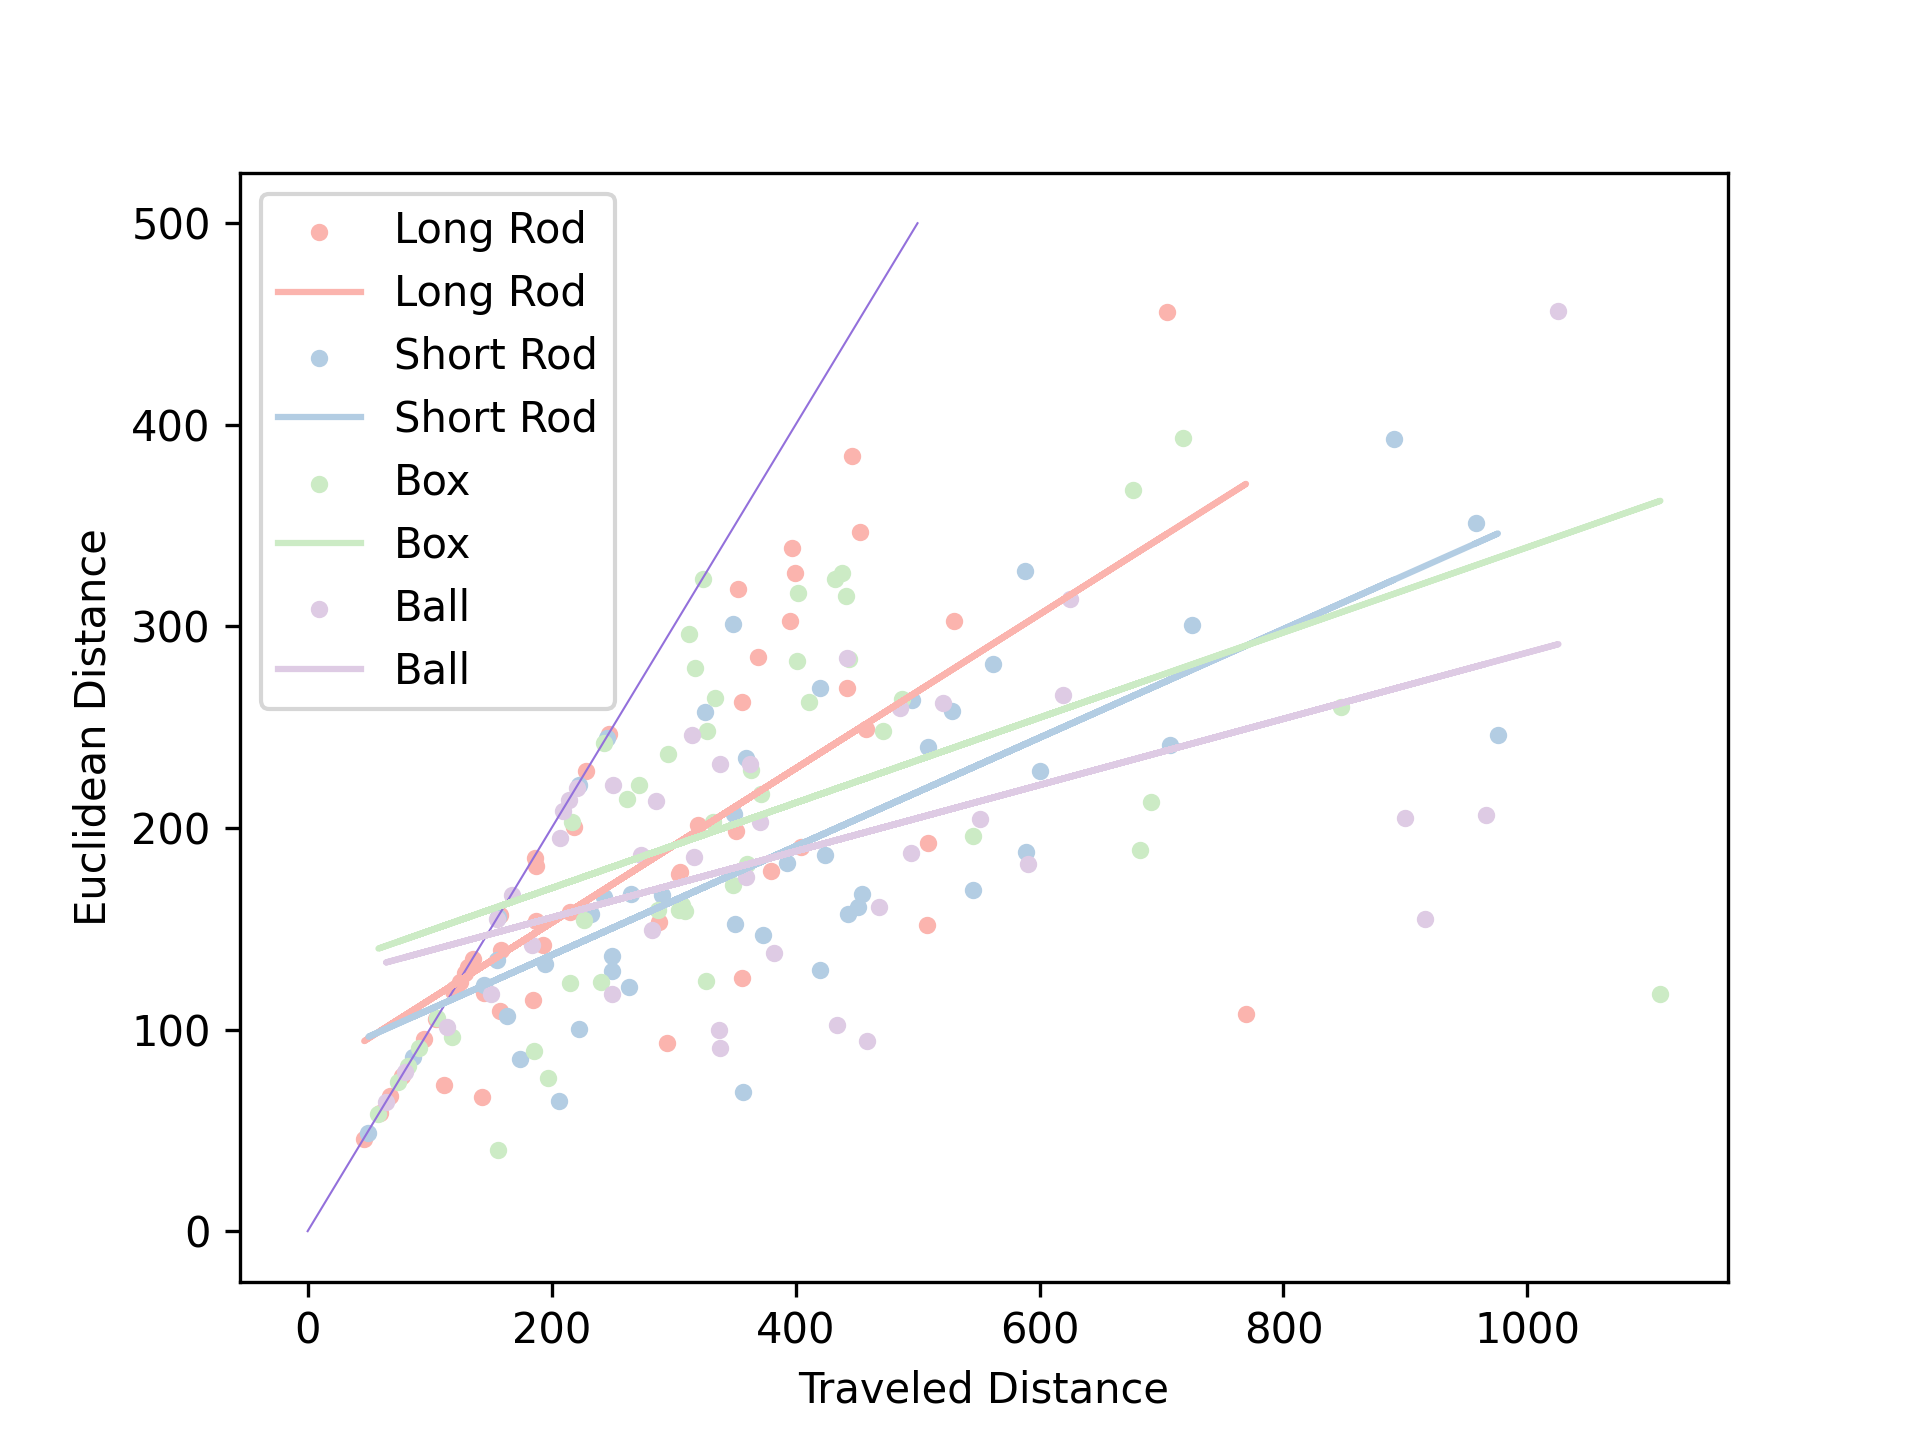
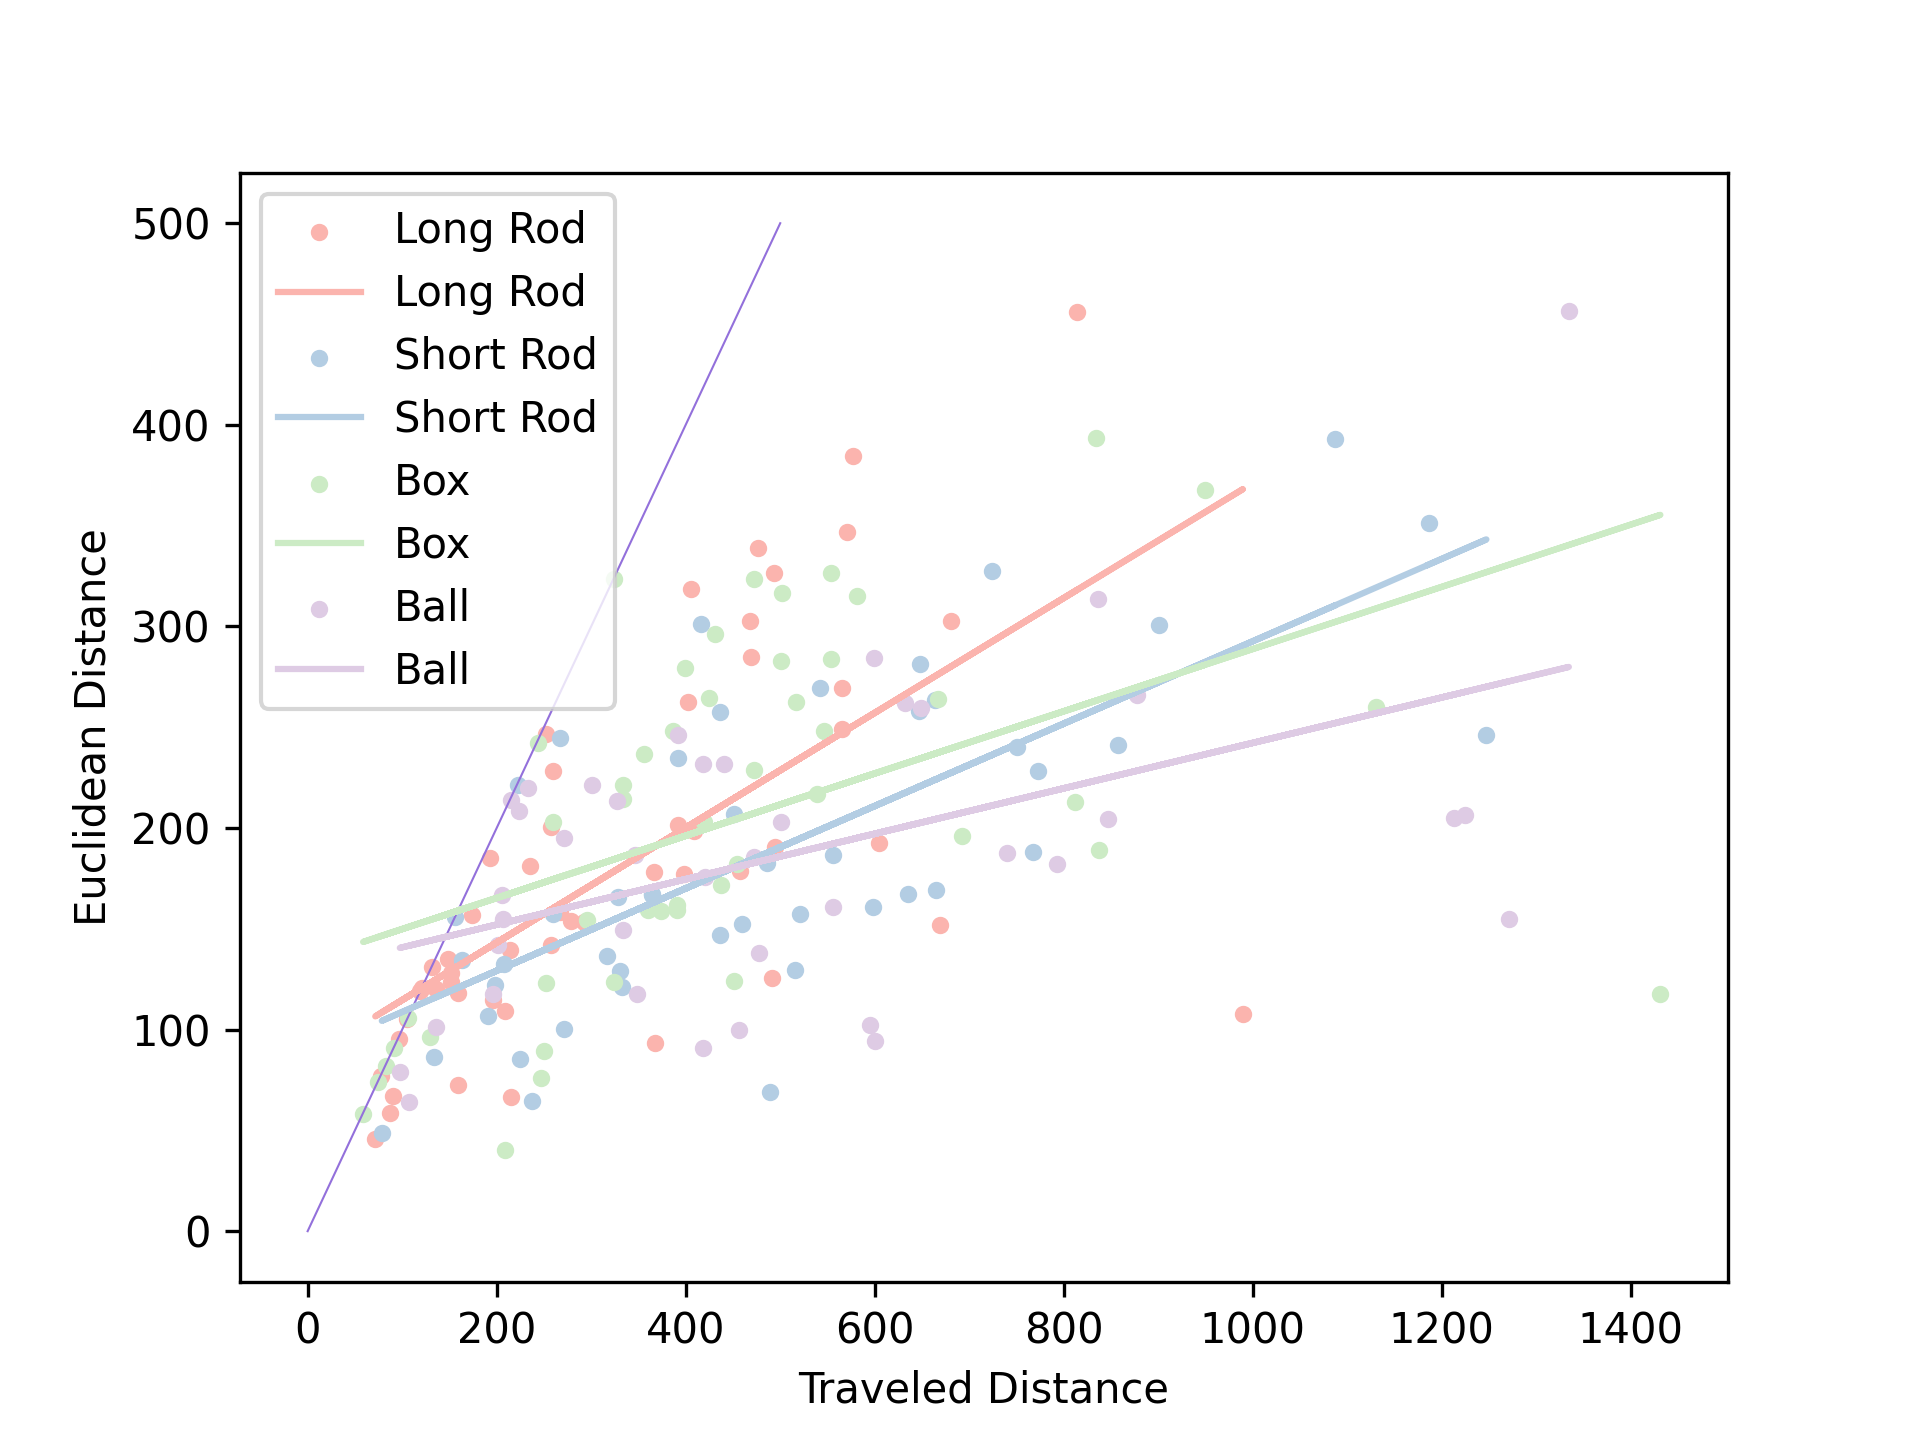
finish drawing traj

diff --git a/prcoess_data.py b/prcoess_data.py
@@ -8,6 +8,7 @@ import math
 import copy
 from sklearn.linear_model import LinearRegression
 import random
+from mpl_toolkits.mplot3d import Axes3D
 
 keys = ["targets", "drop", "within_time_limit", "time_elapsed", "hardware_error", "pos"]
 names = ["TJ_box", "TJ_short_rod", "TJ_long_rod", "TJ_sponge",
@@ -20,6 +21,7 @@ names = ["TJ_box", "TJ_short_rod", "TJ_long_rod", "TJ_sponge",
 persons = ["Alan", "Dylan", "TJ"]
 objects = ["long_rod", "short_rod", "box", "sponge"]
 object_names = ["Long Rod", "Short Rod", "Box", "Ball"]
+
 
 def correct_pos(ddict):
     start = 0
@@ -114,10 +116,15 @@ def extract_info():
                 ttime.append(d['time_elapsed'][i])
                 length.append(np.linalg.norm(d['targets'][i]-d['pos'][i][0]))
                 td = 0
-                for j in range(len(d['pos'][i])-1):
-                    td+=np.linalg.norm(d['pos'][i][j+1] - d['pos'][i][j])
+                if len(d['pos'][i])==1:
+                    td = np.sum(np.abs(d['targets'][i]- d['pos'][i][0]))
+                else:
+                    for j in range(len(d['pos'][i])-1):
+                        td+=np.sum(np.abs(d['pos'][i][j+1] - d['pos'][i][j]))
+
                 if td < length[-1]:
                     td = length[-1] + random.random()
+
                 traveled_dist.append(td)
                 euc_dist.append(length[-1])
 
@@ -366,9 +373,39 @@ def scatter_plot():
     plt.legend(loc='upper left')
     plt.savefig(f"./pics/Scatter Vision.png")
 
-if __name__ == "__main__":
-   # concat_all()
-   # debug()
-   # bar_chart()
+def draw_3d_traj():
+    ddict=np.load("./data/Alan_box.dict", allow_pickle=True)
+    traj = ddict['pos']
+    targets = np.array(ddict['targets'])
+    min_pos = ddict['min_pos']
+    max_pos = ddict['max_pos']
+    diff = max_pos - min_pos
+    k=3
+    traj=np.array(traj[k])
+    diff1 = np.abs(traj[-1] - traj[0])
+    print(traj.shape)
+    # Create a figure and 3D axis
+    fig = plt.figure(dpi=300)
+    ax = fig.add_subplot(111, projection='3d')
+    ax.set_xticks([300, 350, 400, 450])  # Fewer ticks on the x-axis
+    ax.set_yticks([-100, -50, 0, 50, 100])  # Fewer ticks on the y-axis
+    ax.set_zticks([325, 375, 425, 475])  # Fewer ticks on the z-axis
+    cmap = get_cmap('Pastel1')  # Or 'Pastel2'
+    colors = [cmap(0), cmap(1), cmap(2)]
+    # Scatter plot of the 3D points
+    ax.set_box_aspect([diff1[0], diff1[1], diff1[2]])
+    ax.plot(traj[:,0], traj[:,1], traj[:,2],  color='blue', label='Trajectory')
+    ax.scatter(targets[k][0], targets[k][1], targets[k][2], color='orange', s=50,label='Targets')
+    ax.scatter(traj[0][0],traj[0][1],traj[0][2], color='blue', s=15,label='Start')
+    # Adding labels and title
+    ax.set_xlabel('X')
+    ax.set_ylabel('Y')
+    ax.set_zlabel('Z')
+    ax.legend(loc='upper left')
+    plt.savefig(f"./pics/3D Traj.png")
 
-   scatter_plot()
+
+
+if __name__ == "__main__":
+    #scatter_plot()
+    draw_3d_traj()
